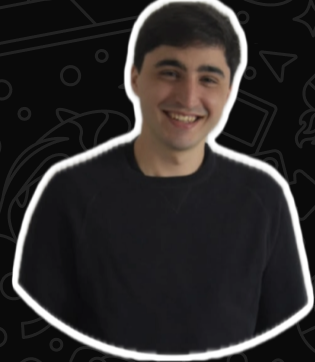
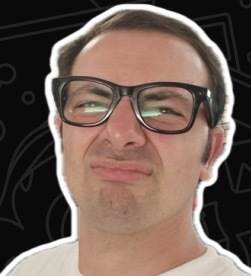
f

diff --git a/main.py b/main.py
@@ -7,18 +7,19 @@ from pathlib import Path
 from andrea.window import Window
 
 
-TILE = 32
+TILE = 48
 generatore = MazeGenerator(size=(20, 21), perfect=False, seed=42)
 mappa = generatore.maze
 maze: Maze = Maze(mappa, 10, 20)
 player: Player = Player(maze, 3)
 ghosts = [Ghost(maze, pos, player) for pos in maze.ghost_spawns]
-window: Window = Window(800, 600, "PACCO-MANNO")
+finestra =pygame.display.set_mode((0, 0), pygame.FULLSCREEN)
+#window: Window = Window(1980, 1200, "PACCO-MANNO")
 
 #mappa = MazeGenerator(size=(20, 21), perfect=False, seed=42).maze
 
 pygame.init()
-window = pygame.display.set_mode((20 * TILE, 21 * TILE))
+#window = pygame.display.set_mode((20 * TILE, 21 * TILE))
 
 cartella = Path(__file__).parent / "andrea/assets"
 tiles = []
@@ -27,7 +28,7 @@ for n in range(16):
     img = pygame.transform.scale(img, (TILE, TILE))
     tiles.append(img)
 
-lato = 10
+lato = 20
 
 
 timer = pygame.time.Clock()
@@ -52,18 +53,24 @@ while running:
                 player.direzione = "right"
     player.move()
     timer.tick(10)
+    for ghost in ghosts:
+        ghost.move()
+        timer.tick(10)
 
-    window.fill((0, 0, 0))
+    finestra.fill((0, 0, 0))
     for y, riga in enumerate(mappa):
         for x, numero in enumerate(riga):
-            window.blit(tiles[numero], (x * TILE, y * TILE))
+            finestra.blit(tiles[numero], (x * TILE, y * TILE))
             if isinstance(maze.mappa[x, y].item, Gum):
                 centro = (x * TILE + TILE // 2, y * TILE + TILE // 2)
-                pygame.draw.circle(window, (255, 255, 0), centro, 3)
+                pygame.draw.circle(finestra, (255, 255, 0), centro, 3)
             elif isinstance(maze.mappa[x, y].item, Bubblegum):
                 centro = (x * TILE + TILE // 2, y * TILE + TILE // 2)
-                pygame.draw.circle(window, (200, 155, 0), centro, 7)
-            pygame.draw.rect(window, (200, 155, 0), (player.x * TILE+12, player.y * TILE+12, lato, lato))
+                pygame.draw.circle(finestra, (200, 155, 0), centro, 7)
+            pygame.draw.rect(finestra, (200, 155, 0), (player.x * TILE+15, player.y * TILE+15, lato, lato))
+            for ghost in ghosts:
+                pygame.draw.rect(finestra, (1, 155, 0), (ghost.x * TILE+15, ghost.y * TILE+15, lato, lato))
+
 
     pygame.display.flip()
 

diff --git a/andrea/window.py b/andrea/window.py
@@ -6,7 +6,7 @@ class Window:
 
     def __init__(self, width: int, height: int, title: str) -> None:
         pygame.init()
-        self.schermo = pygame.display.set_mode((width, height))
+        self.schermo = pygame.display.set_mode((0, 0), pygame.FULLSCREEN)
         pygame.display.set_caption(title)
         self.timer = pygame.time.Clock()
         self.running = True

diff --git a/lorenzo/ghost.py b/lorenzo/ghost.py
@@ -61,6 +61,7 @@ class Ghost():
             dir_piu_corta.append(((x, y), distanz))
         coordinate_minime = min(dir_piu_corta,
                                 key=lambda elemento: elemento[1])[0]
+
         self.x, self.y = coordinate_minime
 
     def move(self) -> None:
